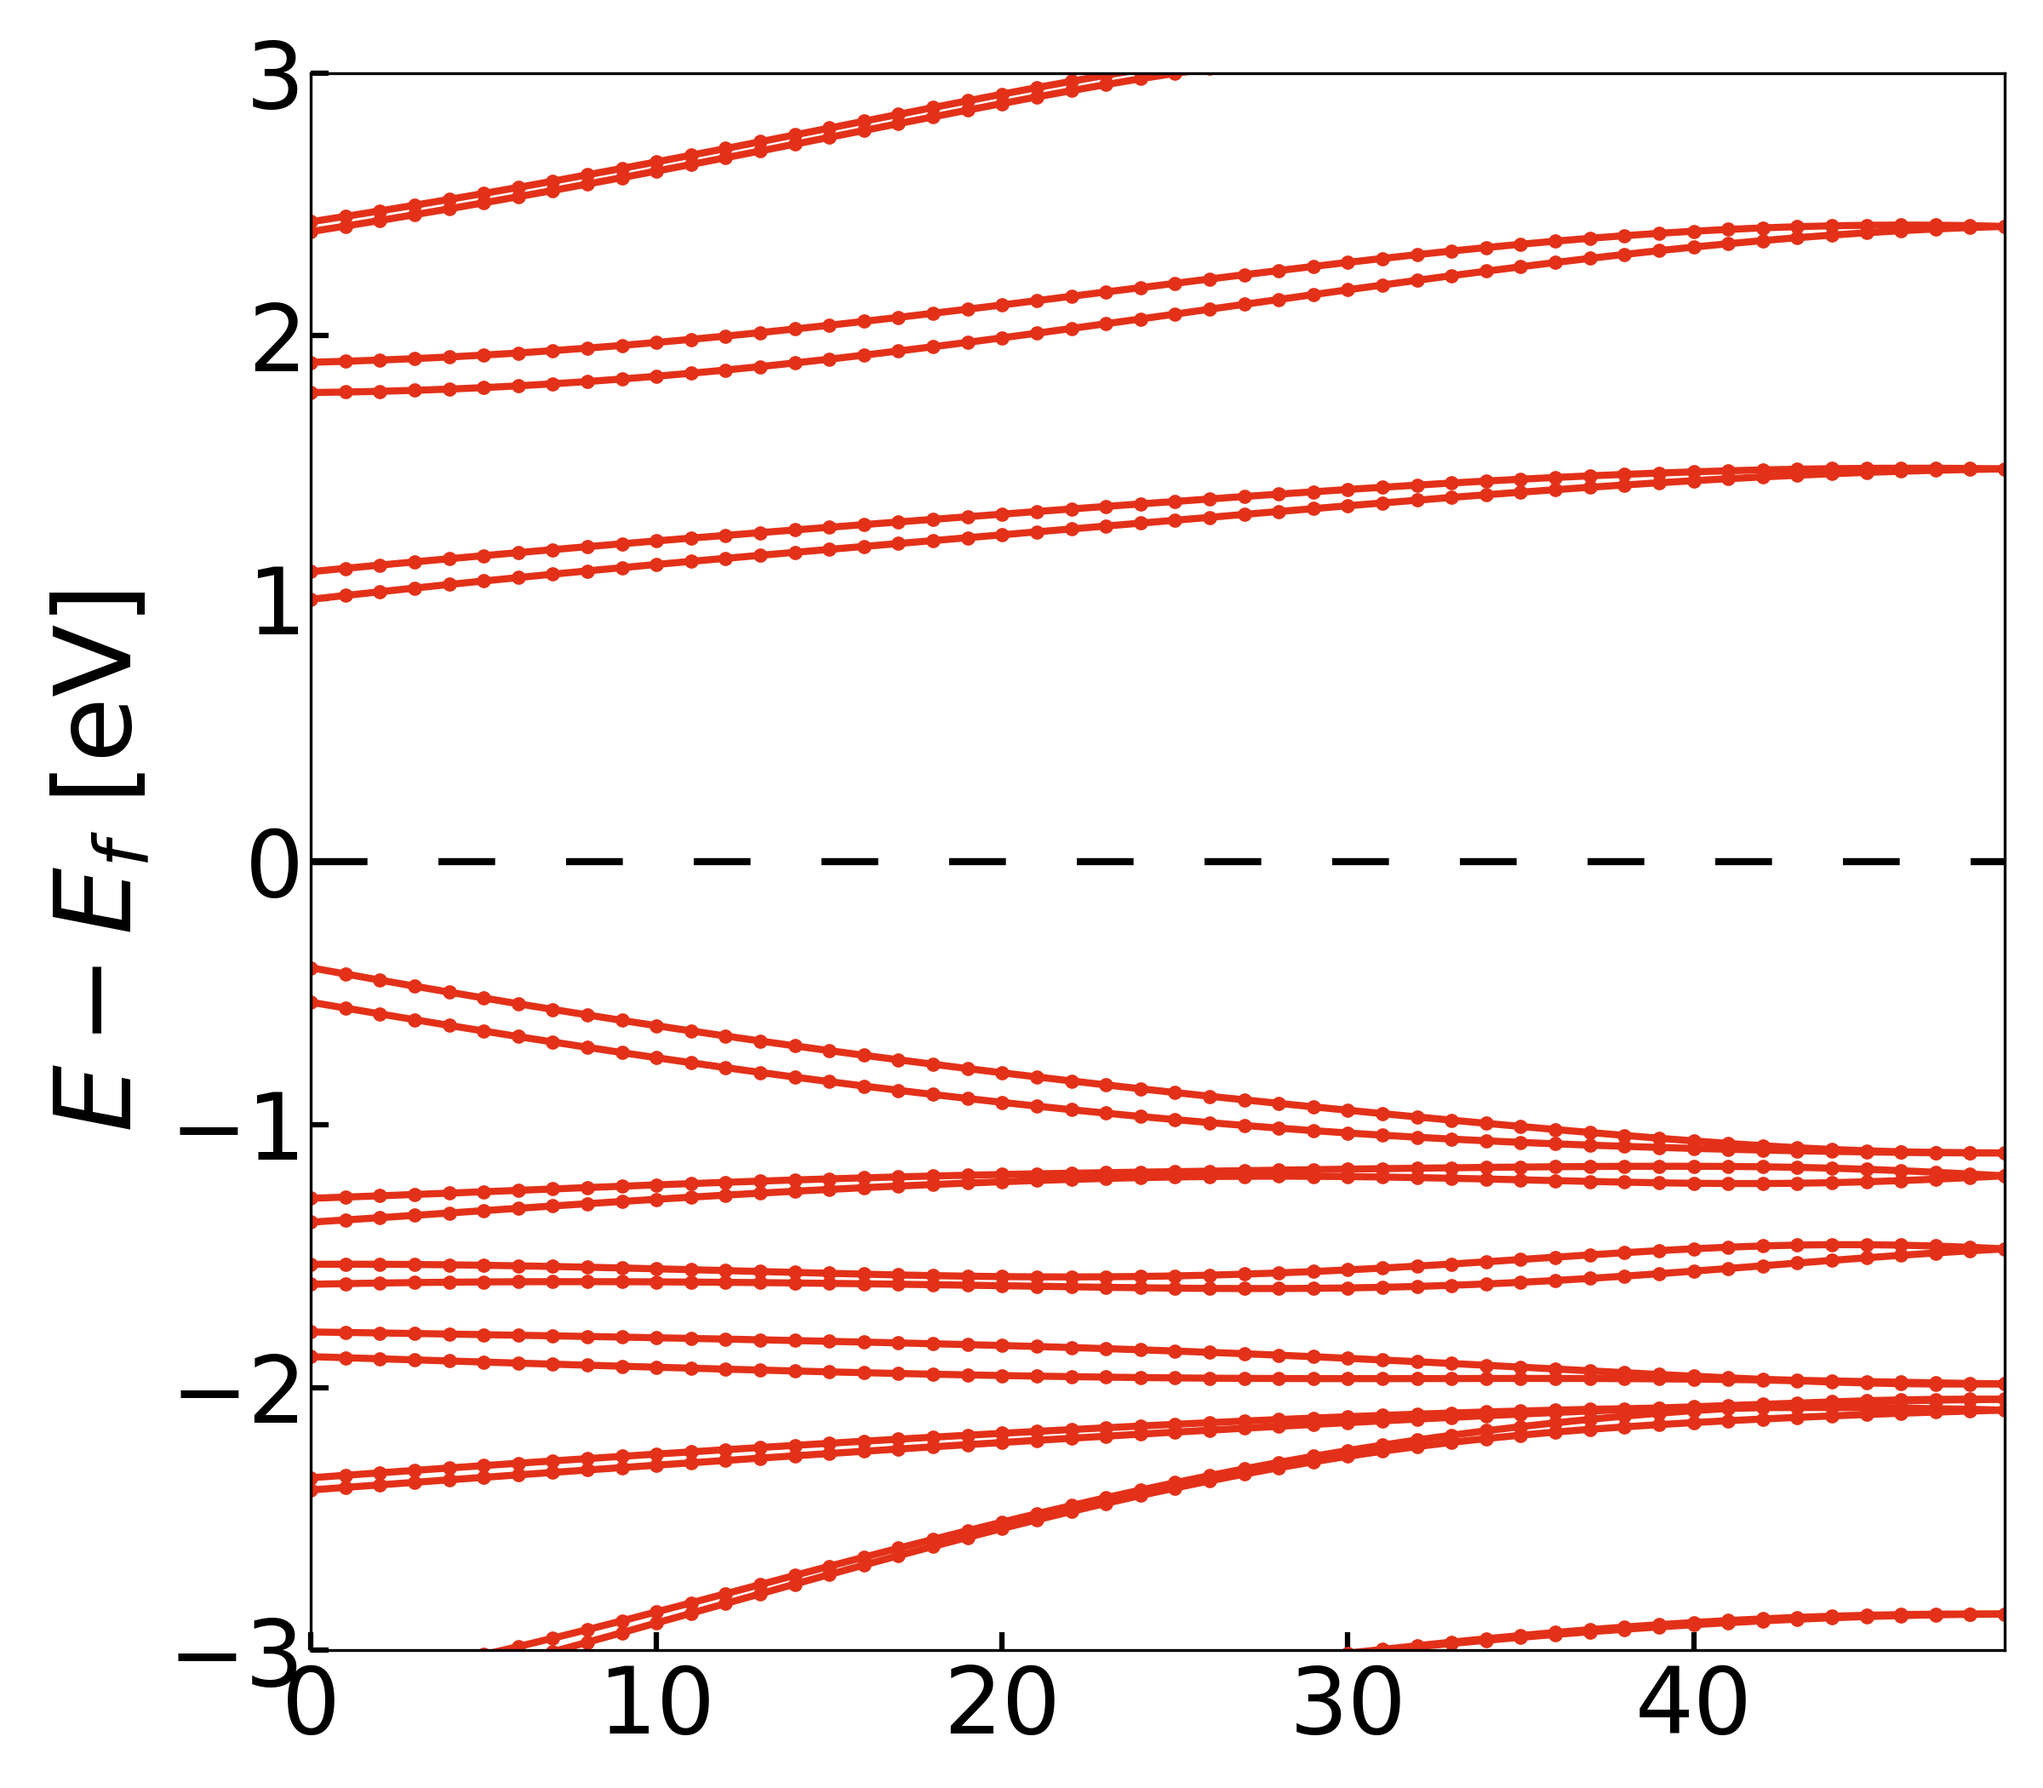
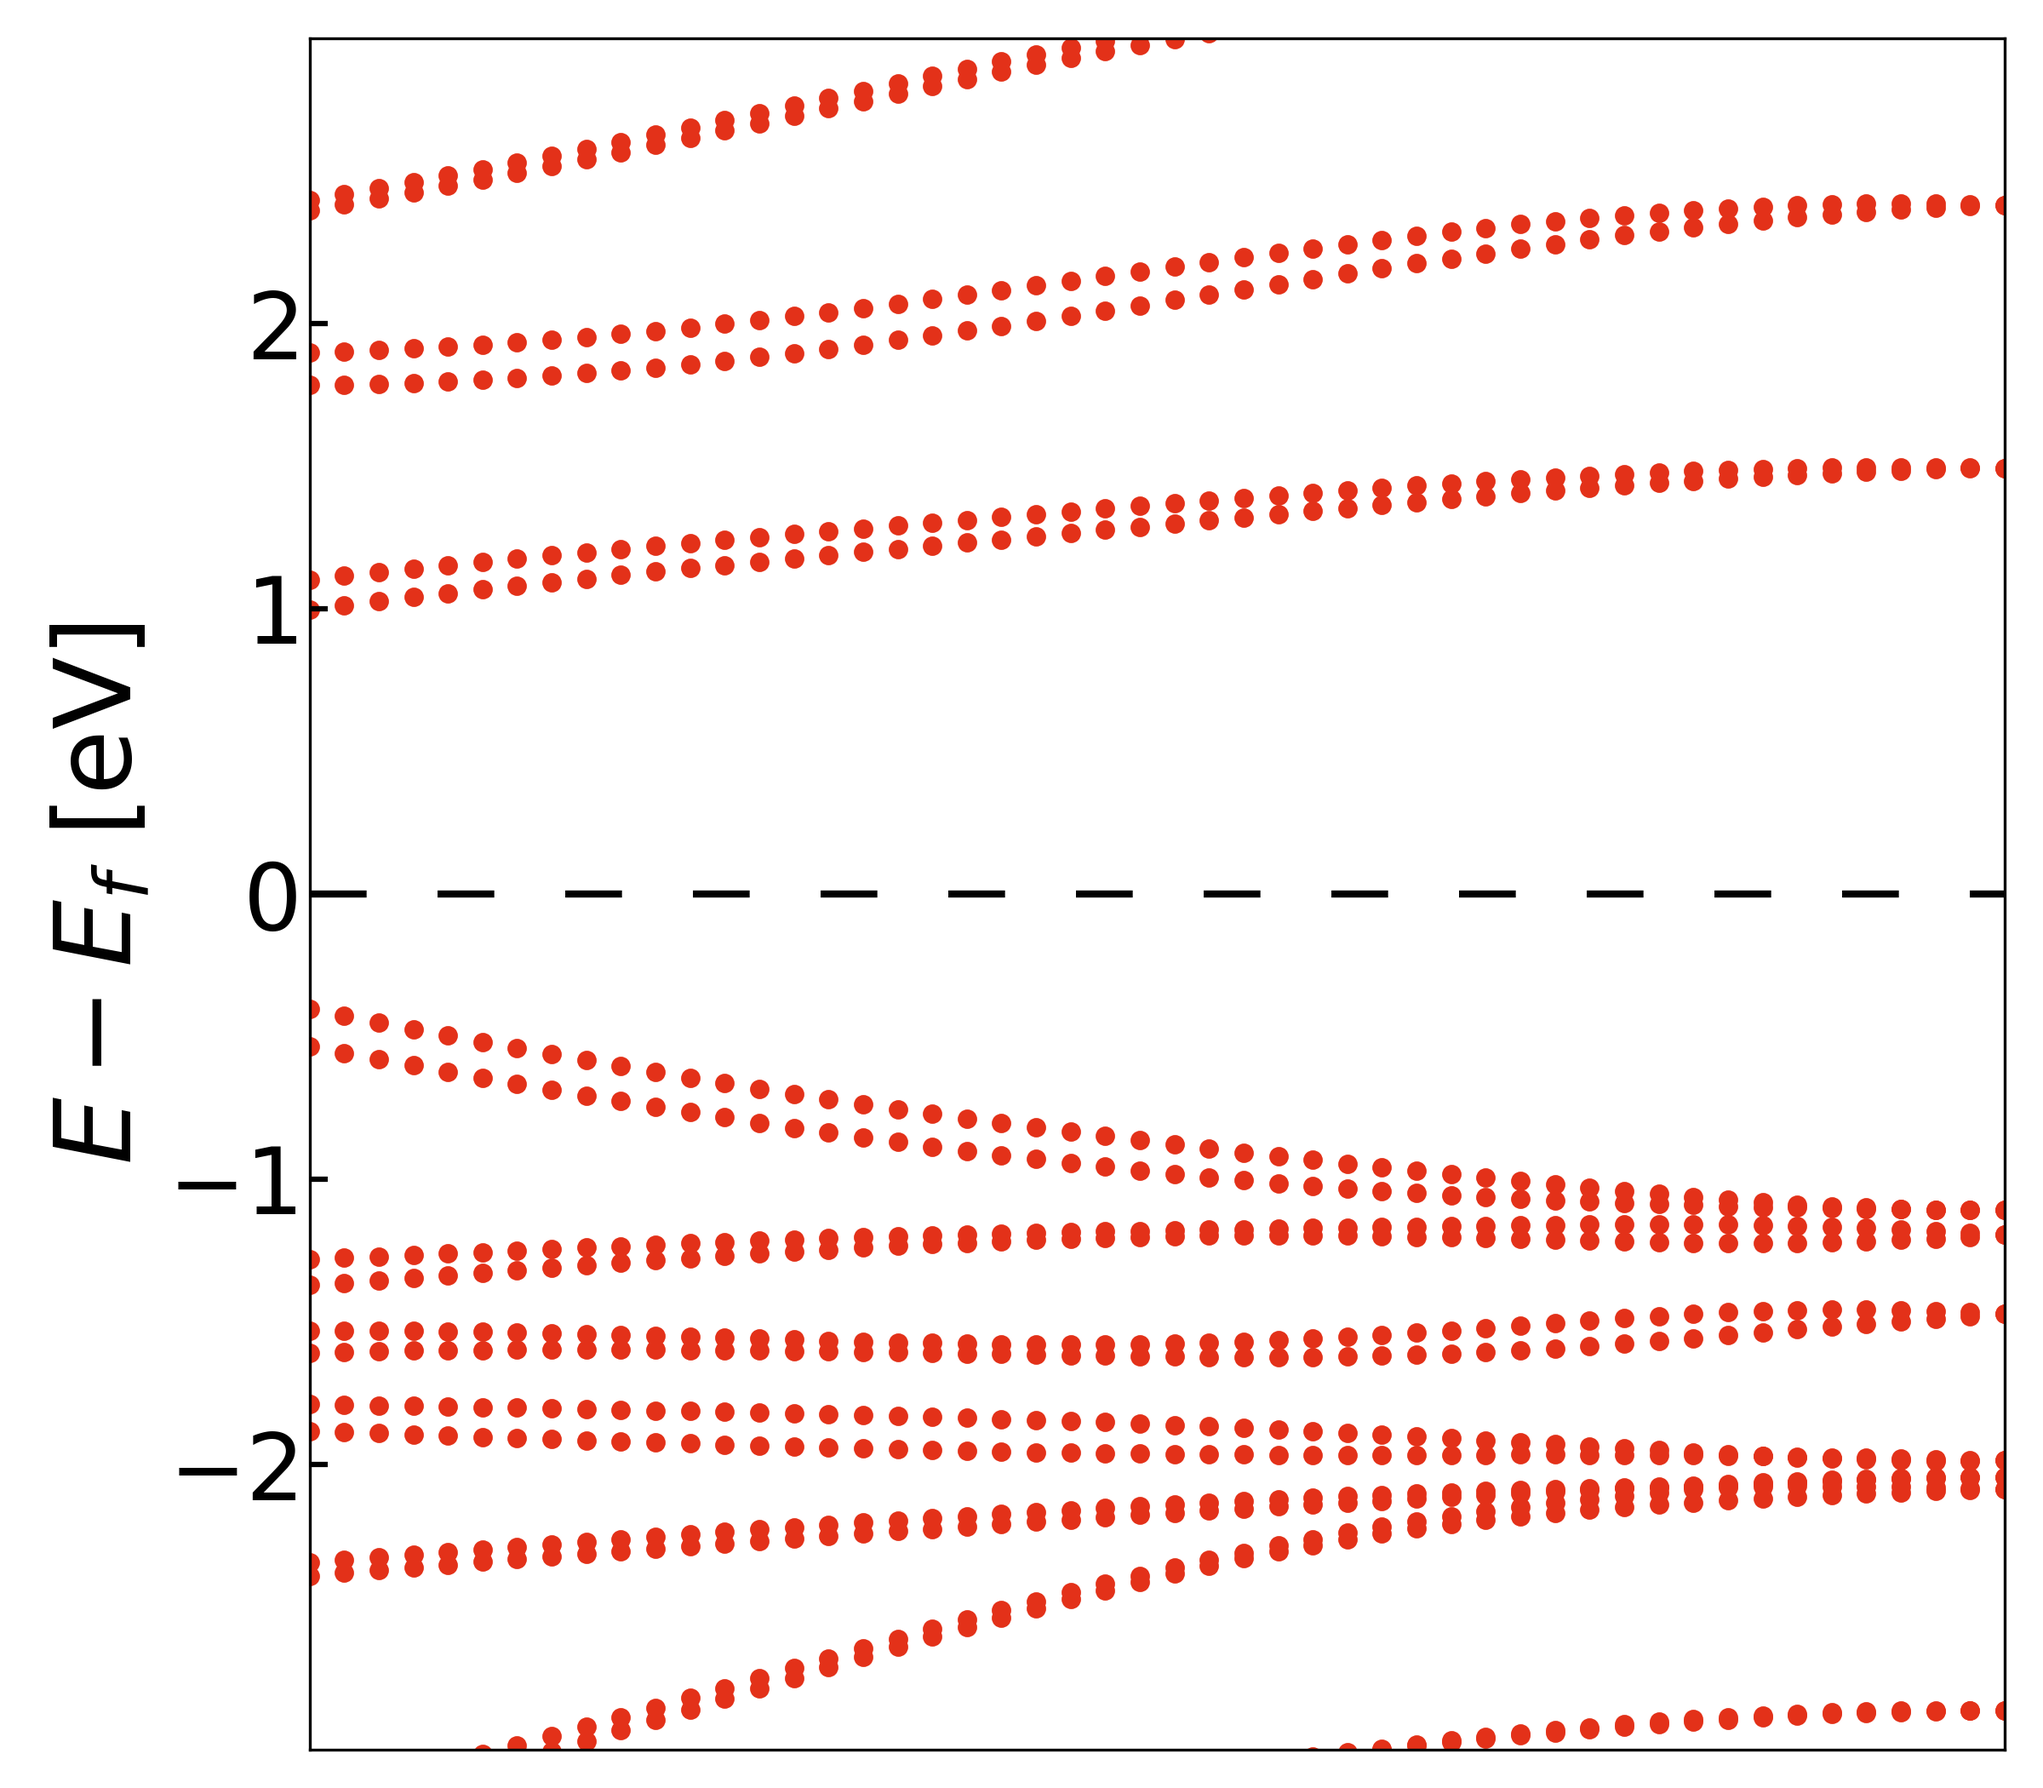
unfold

diff --git a/02_Computational/SuperCell/unfolding.py b/02_Computational/SuperCell/unfolding.py
@@ -2,7 +2,7 @@ from scipy.io import loadmat
 import matplotlib.pyplot as plt
 import numpy as np
 
-path = 1
+path = 2
 primitive_file = f'./Path {path}/primitive.mat'
 primitive_data = loadmat(primitive_file)
 
@@ -12,11 +12,14 @@ unfold_data = loadmat(unfold_file)
 E_f = primitive_data['Efermi']
 eigval = primitive_data['eigval']
 bs = (eigval - E_f).T
+ks = np.arange(len(eigval))
 
 fig, ax = plt.subplots(1, 1, figsize = (8, 7))
 ax.axhline(0, linewidth = 2, color = 'k', alpha = 1, linestyle = (0, (8, 10)))
 for b in bs:
-    ax.plot(b, '.-', linewidth = 2, alpha = 1, color = '#E33119')
+    ax.scatter(ks, b, s = 20, marker = 'o', alpha = 1, color = '#E33119')
+ax.set_xticks([])
+ax.set_yticks([-2, -1, 0, 1, 2])
 # ax.set_xticks(ticks = tick_pos, labels = labels, fontsize = 30)
 ax.set_ylabel(r'$E-E_f$ [eV]', fontsize = 30)
 ax.set_ylim((-3, 3))
@@ -36,12 +39,14 @@ bs = (eigval - E_f_u).T
 ks = np.arange(len(eigval))
 
 weights = unfold_data['sw'][0, :, :, 1].T
-weights /= np.max(weights)/10
+weights /= np.max(weights)
 
 fig, ax = plt.subplots(1, 1, figsize = (8, 7))
 ax.axhline(0, linewidth = 2, color = 'k', alpha = 1, linestyle = (0, (8, 10)))
 for b, weight in zip(bs, weights):
-    ax.scatter(ks, b, s = weight, alpha = 1, color = '#E33119')
+    ax.scatter(ks, b, s = 20*weight, marker = 'o', alpha = 1, color = '#2F349A')
+ax.set_xticks([])
+ax.set_yticks([-3, -2, -1, 0, 1, 2])
 # ax.set_xticks(ticks = tick_pos, labels = labels, fontsize = 30)
 ax.set_ylabel(r'$E-E_f$ [eV]', fontsize = 30)
 ax.set_ylim((-3-dE_f, 3-dE_f))
